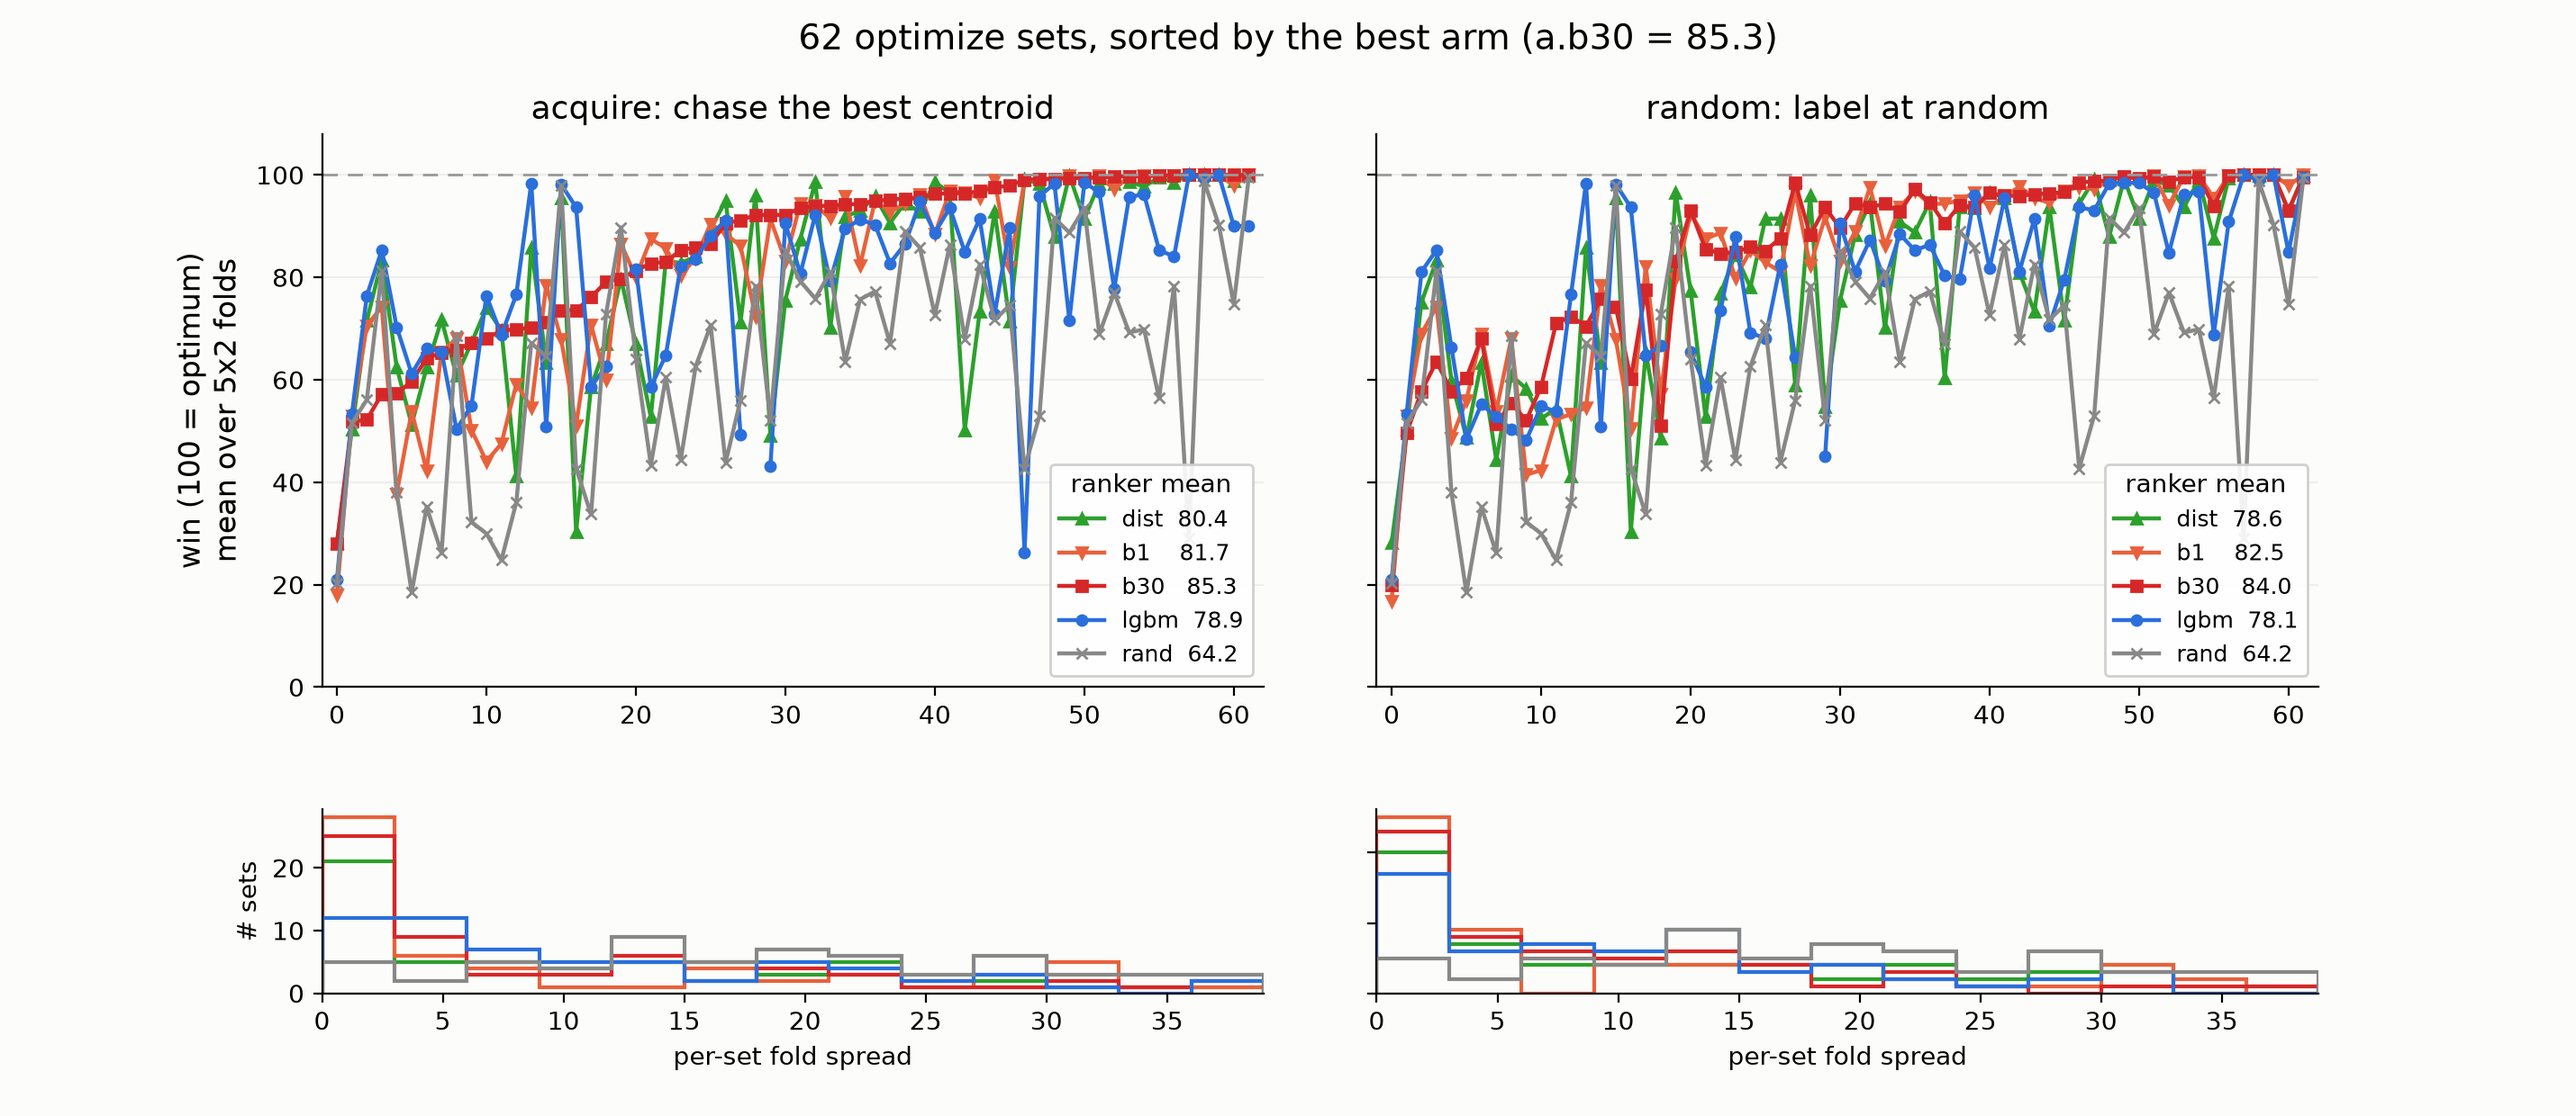
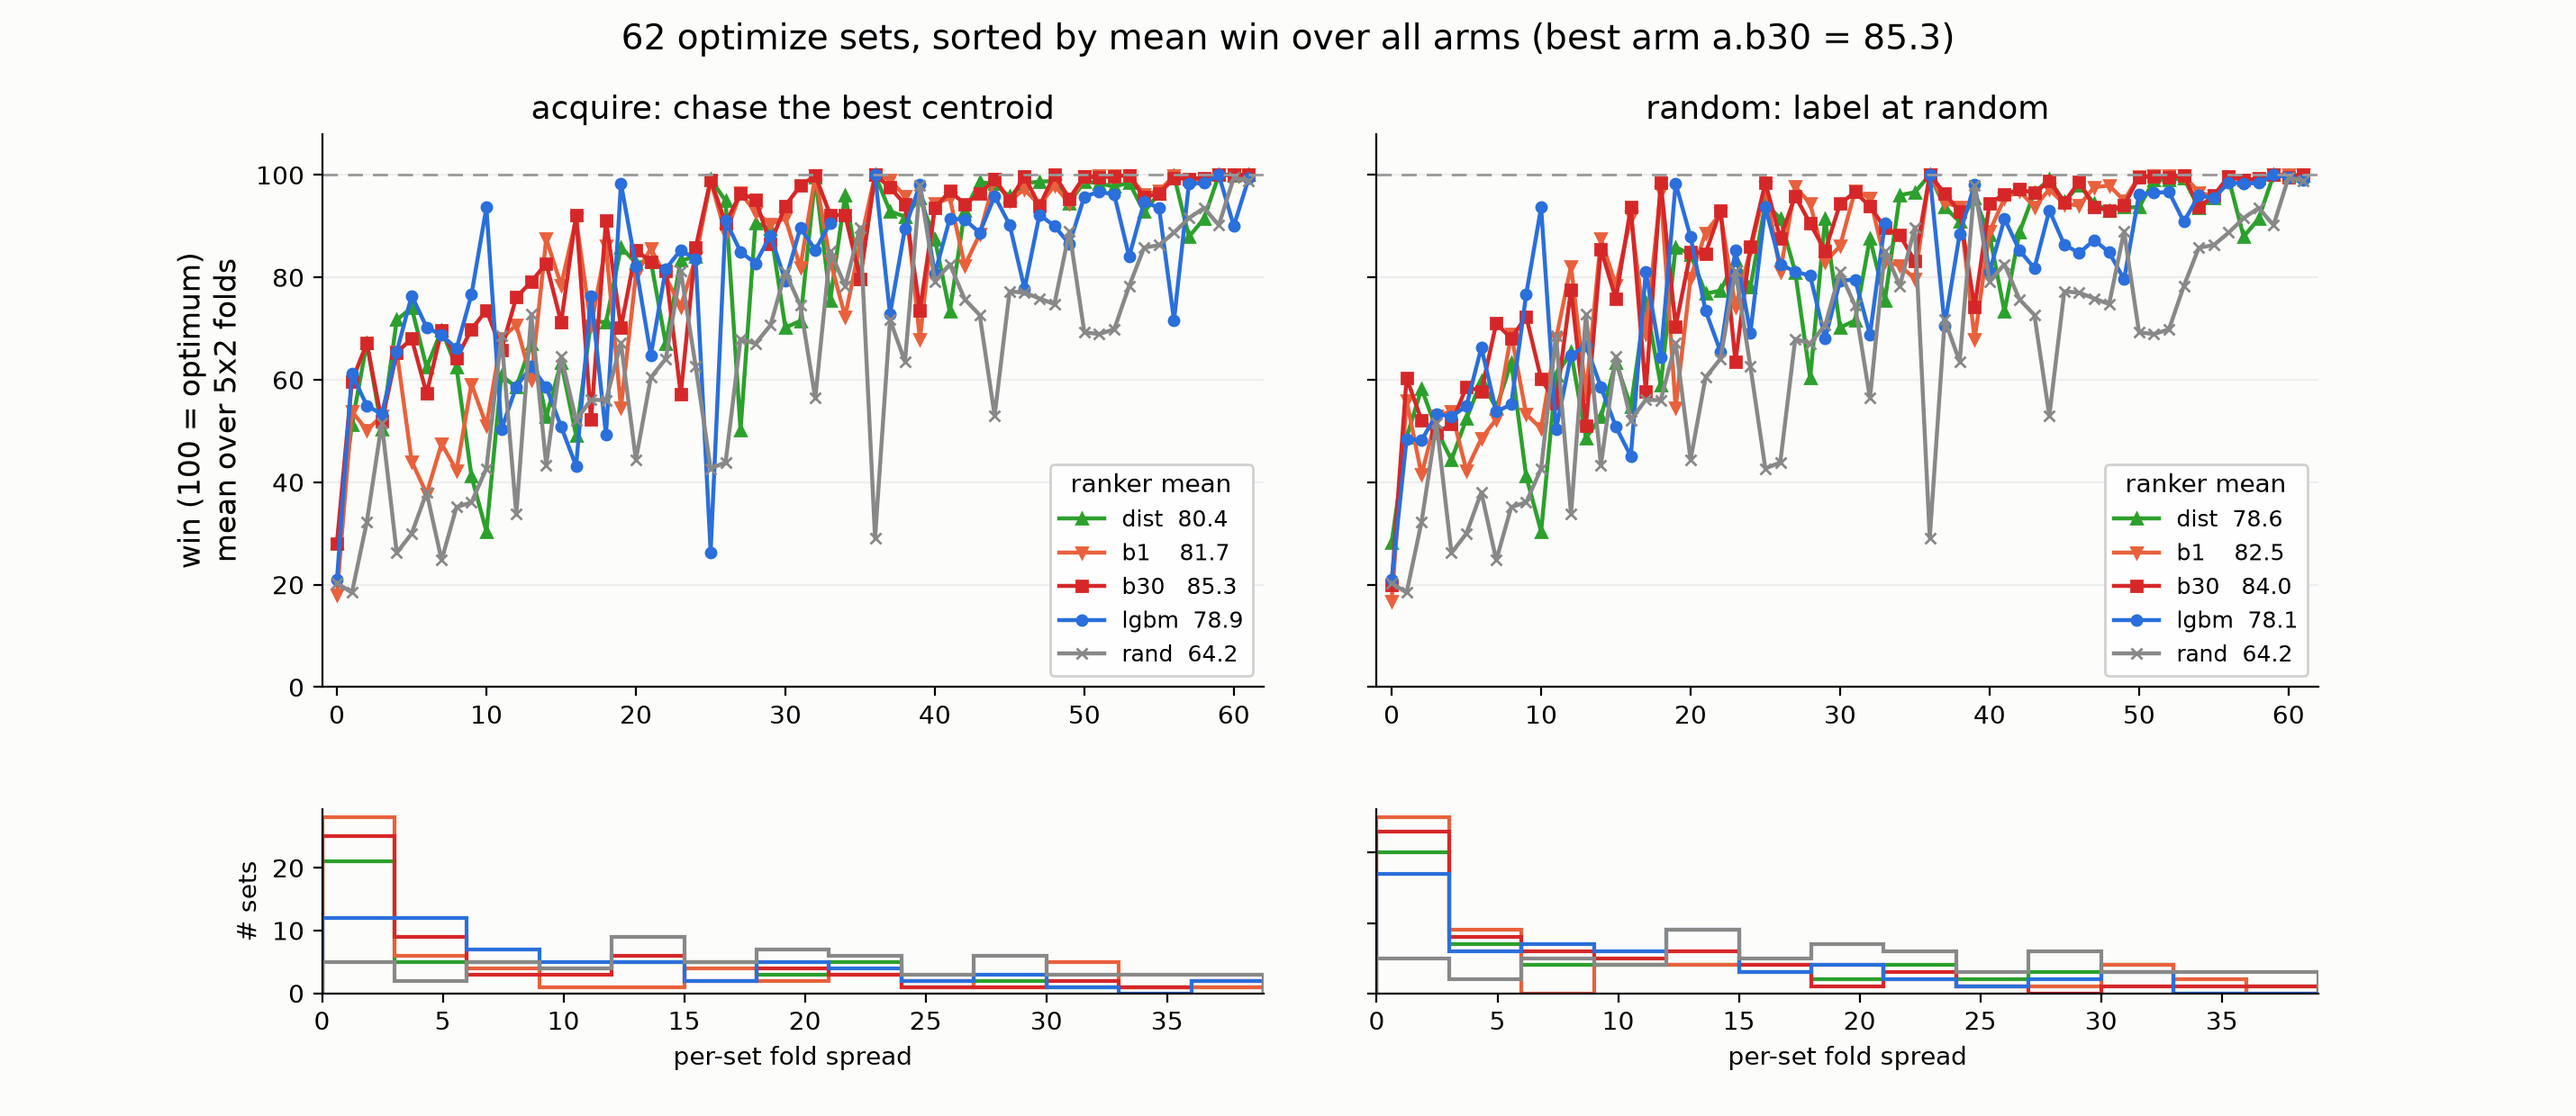
active figure: sort sets by mean win over all arms (set difficulty)
x-axis is now each set's mean-of-all-arms, so the pack rises as
sets get easier and every arm's gap to the crowd is visible. Best
arm is still a.b30 (85.3).

diff --git a/active_plot.py b/active_plot.py
@@ -35,8 +35,10 @@ sets = list(dict.fromkeys(s for s, _ in F))
 mu = {k: st.fmean(v) for k, v in F.items()}
 grand = {a: st.fmean([mu[(s, a)] for s in sets if (s, a) in mu])
          for a in {a for _, a in F}}
-best = max(grand, key=grand.get)                 # strongest arm, any panel
-order = sorted(sets, key=lambda s: mu.get((s, best), 0))
+best = max(grand, key=grand.get)                 # strongest arm (legend)
+allmu = {s: st.fmean([mu[(s, a)] for a in grand if (s, a) in mu])
+         for s in sets}                           # each set's mean-of-all
+order = sorted(sets, key=allmu.get)               # sort by set difficulty
 xs = np.arange(len(order))
 
 fig = plt.figure(figsize=(14.3, 6.2))
@@ -67,8 +69,9 @@ for col, (aq, title) in enumerate(ACQ):
   for p in (ax, bx):
     for s_ in ("top", "right"): p.spines[s_].set_visible(False)
 
-fig.suptitle("%d optimize sets, sorted by the best arm (%s = %.1f)"
-             % (len(order), best, grand[best]), fontsize=14, y=.98)
+fig.suptitle("%d optimize sets, sorted by mean win over all arms "
+             "(best arm %s = %.1f)" % (len(order), best, grand[best]),
+             fontsize=14, y=.98)
 fig.set_facecolor("#fcfcfa")
 for a in fig.axes: a.set_facecolor("#fcfcfa")
 plt.savefig(sys.argv[2], dpi=200)
